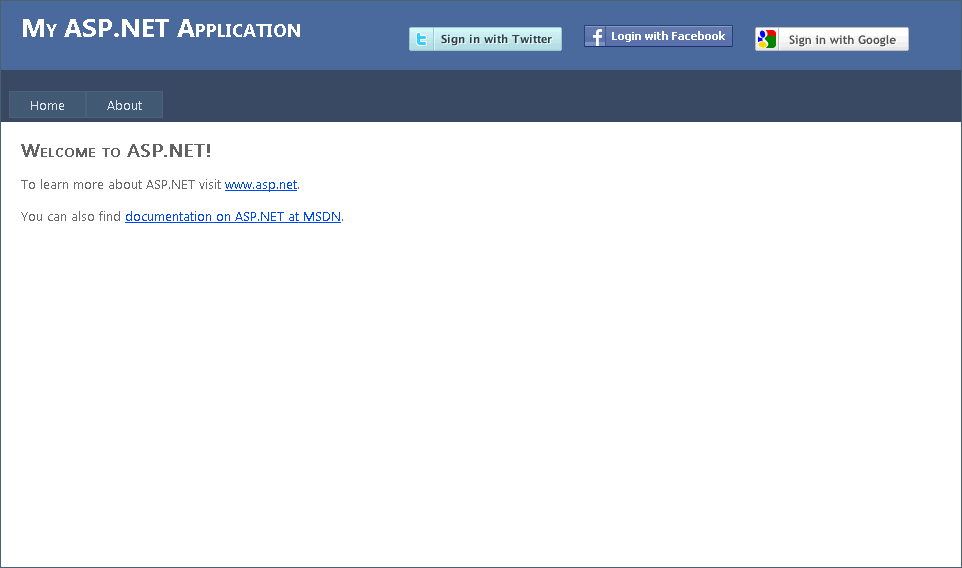
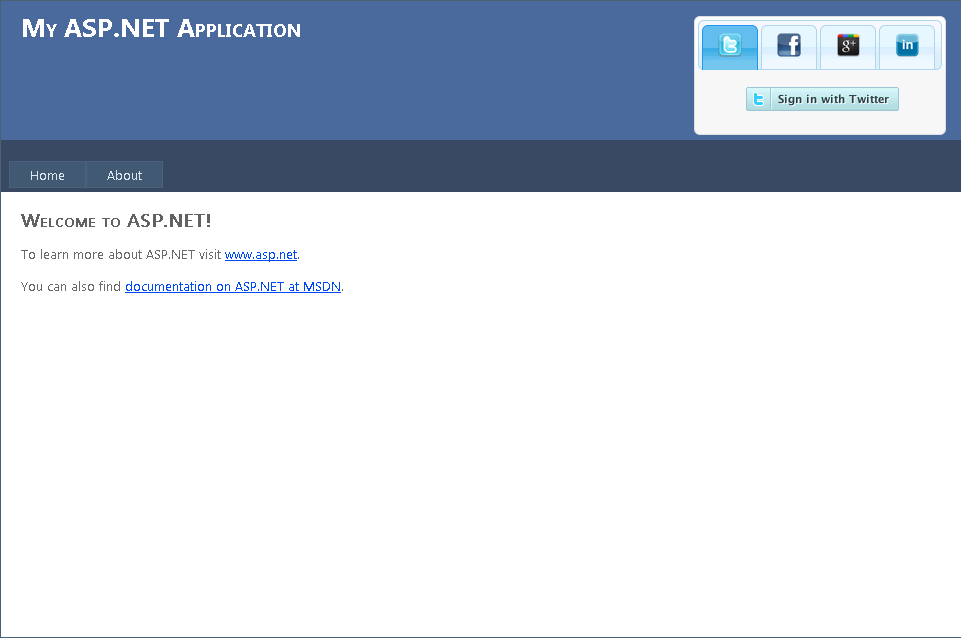
Converted Facebook to oAuth 2.0
Modified button display using jQuery Tabs.

Changed region(s): [[0.0, 0.0, 1.0, 0.4789], [0.0, 0.2993, 1.0, 1.0], [0.0312, 0.0299, 0.3122, 0.0898]]

diff --git a/AuthPack/Auth/FacebookAuth.cs b/AuthPack/Auth/FacebookAuth.cs
@@ -1,0 +1,110 @@
+using System;
+using System.Collections.Generic;
+using System.Linq;
+using System.Web;
+using System.Runtime.Serialization;
+using System.Text;
+using System.Security.Cryptography;
+
+namespace AuthPack
+{
+    public static class FacebookAuth
+    {
+        public static FacebookAuthRequest ParseSignedRequest(string signed_request, string secret)
+        {
+            FacebookAuthRequest req = new FacebookAuthRequest();
+
+            string[] parms = signed_request.Split('.');
+            var encoded_sig = parms[0];
+
+            if (encoded_sig.Length > 0)
+            {
+                string sig = Base64UrlDecode(encoded_sig);
+                string payload = parms[1];
+
+                using (HMACSHA256 crypto = new HMACSHA256(Encoding.UTF8.GetBytes(secret)))
+                {
+                    string expected_sig = Base64UrlDecode(Convert.ToBase64String(crypto.ComputeHash(Encoding.UTF8.GetBytes(payload))));
+                    if (expected_sig == sig)
+                    {
+                        string json = Encoding.UTF8.GetString(Convert.FromBase64String(Base64UrlDecode(payload)));
+                        req = Json.Deserialise<FacebookAuthRequest>(json);
+                    }
+                }
+
+            }
+
+            return req;
+        }
+
+        /// <summary>
+        /// Converts the base 64 url encoded string to standard base 64 encoding.
+        /// </summary>
+        /// <param name="encodedValue">The encoded value.</param>
+        /// <returns>The base 64 string.</returns>
+        private static string Base64UrlDecode(string encodedValue)
+        {
+            encodedValue = encodedValue.Replace('+', '-').Replace('/', '_').Trim();
+            int pad = encodedValue.Length % 4;
+            if (pad > 0)
+            {
+                pad = 4 - pad;
+            }
+
+            encodedValue = encodedValue.PadRight(encodedValue.Length + pad, '=');
+            return encodedValue;
+        }
+
+
+    }
+
+    public class FacebookAuthRequest
+    {
+        [DataMember]
+        public FacebookAuthUser user;
+        [DataMember]
+        public string algorithm;
+        [DataMember]
+        public string issued_at;
+        [DataMember]
+        public string user_id;
+        [DataMember]
+        public string oauth_token;
+        [DataMember]
+        public string code;
+        [DataMember]
+        public string expires;
+        [DataMember]
+        public string app_data;
+        [DataMember]
+        public FacebookAuthPage page;
+        [DataMember]
+        public string profile_id;
+    }
+
+    public class FacebookAuthUser
+    {
+        [DataMember]
+        public string locale;
+        [DataMember]
+        public string country;
+        [DataMember]
+        public FacebookAuthAge age;
+    }
+    public class FacebookAuthAge
+    {
+        [DataMember]
+        public int min;
+        [DataMember]
+        public int max;
+    }
+    public class FacebookAuthPage
+    {
+        [DataMember]
+        public string id;
+        [DataMember]
+        public bool liked;
+        [DataMember]
+        public bool admin;
+    }
+}

diff --git a/AuthPack/Auth/Auth.aspx.cs b/AuthPack/Auth/Auth.aspx.cs
@@ -131,21 +131,34 @@ namespace AuthPack
 
             #region Facebook
             //Facebook Return
-            if (Request.Params["fbs_" + ConfigurationManager.AppSettings["facebook_appid"].ToString()] != null && Request["facebookauth"] == "false")
+            if (Request.Params["fbsr_" + ConfigurationManager.AppSettings["facebook_appid"].ToString()] != null && Request["facebookauth"] == "false")
             {
-                string fbParms = Request["fbs_" + ConfigurationManager.AppSettings["facebook_appid"]].ToString().Replace("\"", "");
-                NameValueCollection qs = System.Web.HttpUtility.ParseQueryString(fbParms);
+                string signed_request = Request["fbsr_" + ConfigurationManager.AppSettings["facebook_appid"]].ToString().Replace("\"", "");
+
+                //Parse the signed_request;
+                FacebookAuthRequest req = FacebookAuth.ParseSignedRequest(signed_request, ConfigurationManager.AppSettings["facebook_appsecret"]);
+
+                //Get the Access Token
+                string url = "https://graph.facebook.com/oauth/access_token?client_id=" + Server.UrlEncode(ConfigurationManager.AppSettings["facebook_appid"].ToString()) + "&redirect_uri=&client_secret=" + Server.UrlEncode(ConfigurationManager.AppSettings["facebook_appsecret"].ToString()) + "&code=" + Server.UrlEncode(req.code);
+                string ret = AuthUtilities.WebRequest(AuthUtilities.Method.GET, url, "");
+
+                string[] access_token_parm = ret.Split('=');
+                string access_token = "";
+                if (access_token_parm[0] == "access_token" && access_token_parm.Length == 2)
+                {
+                    access_token = access_token_parm[1];
+                }
 
                 //STORE THIS TOKEN FOR LATER CALLS
-                //qs["access_token"]
+                //access_token
 
                 //SAMPLE FACEBOOK API CALL
-                string url = "https://graph.facebook.com/me?access_token=%%access_token%%";
-                url = url.Replace("%%access_token%%", qs["access_token"]);
+                url = "https://graph.facebook.com/me?access_token=%%access_token%%";
+                url = url.Replace("%%access_token%%", access_token);
                 FacebookMe fb_me = Json.Deserialise<FacebookMe>(AuthUtilities.WebRequest(AuthUtilities.Method.GET, url, ""));
 
                 //Validation -- uid and accesstoken reference same id.
-                if (qs["uid"] == fb_me.id)
+                if (req.user_id == fb_me.id)
                 {
                     if (fb_me.username.Length == 0)
                     {
